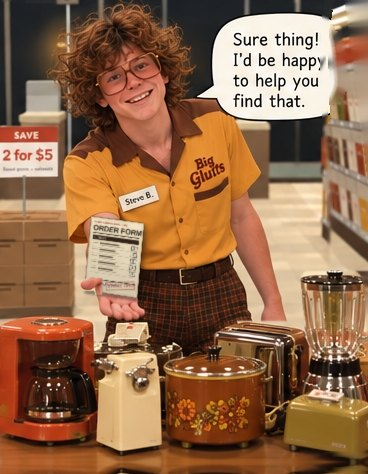
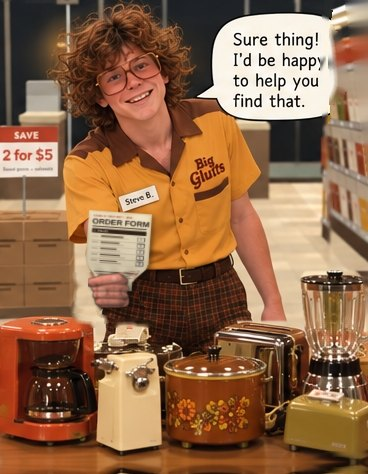
The clerk's fist round the handed-over form, the form in his hand as he walks off; the home-confused second line fades in after 2 s
Claude-Session: https://claude.ai/code/session_01MBPPNbw7PWwvpcuEmuKfZK

Changed region(s): [[0.1793, 0.443, 0.4185, 0.7089], [0.1793, 0.6498, 0.269, 0.7089]]

diff --git a/apps/novaStory.jsx b/apps/novaStory.jsx
@@ -118,9 +118,12 @@ const CSS = `
   .ns-caption.on { animation: ns-in 0.6s ease both; }
   .ns-sub { display: block; max-width: 30em; margin: 0.9em auto 0; font: italic 400 clamp(14px, 2.2vw, 19px)/1.45 'Bodoni Moda', 'Didot', Georgia, serif; color: #CDBF9E; letter-spacing: 0.01em; }
   .ns-caption.off { animation: ns-out 0.5s ease both; }
+  /* (The second line comes up on its own, two seconds after the first, user.) */
+  .ns-caption.on .ns-sub { animation: ns-in 0.8s ease 2s both; }
   @media (prefers-reduced-motion: reduce) {
     .ns-tape, .ns-paper, .ns-slot { transition-duration: 0.01s; }
     .ns-dim, .ns-black.on, .ns-black.off, .ns-caption.on, .ns-caption.off { animation-duration: 0.01s; }
+    .ns-caption.on .ns-sub { animation-duration: 0.01s; animation-delay: 0s; }
   }
 `;
 
@@ -178,8 +181,9 @@ export function StoryCut({ cut, onSwap, onDone, sfx }) {
     if (!cut.arrived) return undefined;
     let raf = requestAnimationFrame(() => {
       raf = requestAnimationFrame(() => {
-        // (A second line takes longer to read.)
-        const read = Math.max(0, (reduced ? 400 : cut.sub ? 3600 : 1700) - (performance.now() - captionAt.current));
+        // (A second line takes longer to read, and comes up 2 s after the
+        // first: 2 s, its fade, and about four seconds on it.)
+        const read = Math.max(0, (reduced ? 400 : cut.sub ? 6800 : 1700) - (performance.now() - captionAt.current));
         after(read, () => setCaption("off"));
         after(read + (reduced ? 50 : 500), () => setStage("reveal"));
         after(read + (reduced ? 100 : 1650), () => onDone());

diff --git a/tools/tienda_clerk_frames.py b/tools/tienda_clerk_frames.py
@@ -370,11 +370,19 @@ def over(dst, layer, dx=0, dy=0, scale=1.0):
 # standing up in his palm, leaning back a little, his thumb in front of it.
 FONT = "/usr/share/fonts/truetype/liberation/LiberationSans-Bold.ttf"
 MONO = "/usr/share/fonts/truetype/liberation/LiberationMono-Bold.ttf"
-# The sheet's corners in the frame (after CROP): top-left, top-right,
-# bottom-right, bottom-left; the bottom edge along his palm.
-FORM_QUAD = [(91, 216), (144, 223), (137, 298), (84, 290)]
-# His thumb (in front of the sheet): where to look for it.
-THUMB_BOX = (76, 278, 102, 295)
+# "Sure thing!": his open hand taken out and a fist painted in its place,
+# closed round the sheet's bunched bottom edge, the sheet fanning up out of
+# it toward you. (Frame coordinates, after CROP.)
+FIST_AT = (88, 268)        # the fist's little canvas, top-left
+FIST_SIZE = 48
+OPEN_HAND = (74, 266, 152, 326)  # where the open hand was (skin in here goes)
+SHEET_TOP, SHEET_BOT = 212, 284  # the sheet's rows, top to where it enters the fist
+SHEET_X_TOP = (84, 146)    # its width up top
+SHEET_X_BOT = (97, 131)    # gathered into the fist
+SHEET_TILT = -4.0          # degrees, about the fist
+# "I'll go check on that...": the sheet hanging from his hand as he walks.
+HANG_FINGERS = (108, 224, 134, 246)  # his fingers (in front of its top edge)
+HANG_QUAD = [(104, 235), (137, 238), (134, 283), (99, 279)]
 
 
 def order_form_art(w=448, h=592):
@@ -435,55 +443,204 @@ def order_form_art(w=448, h=592):
     return arr.astype(np.uint8)
 
 
-def hold_order_form(img):
-    """The order form, in his hand: the sheet warped onto FORM_QUAD, lit a
-    little from above (the store's ceiling), softened to the photo's
-    focus, with a soft shadow on him behind it; then his thumb back over
-    it."""
-    H_, W_ = img.shape[:2]
-    art = order_form_art()
+def _skin(reg):
+    R, G, B = reg[..., 0].astype(int), reg[..., 1].astype(int), reg[..., 2].astype(int)
+    return (R > 140) & (R - G > 30) & (R - B > 40)
+
+
+def _capsule(xx, yy, p0, p1, r):
+    """Signed distance to a capsule from p0 to p1, radius r."""
+    (x0, y0), (x1, y1) = p0, p1
+    dx, dy = x1 - x0, y1 - y0
+    t = np.clip(((xx - x0) * dx + (yy - y0) * dy) / (dx * dx + dy * dy + 1e-9), 0, 1)
+    return np.hypot(xx - (x0 + t * dx), yy - (y0 + t * dy)) - r
+
+
+def paint_fist(skin, tex, size=FIST_SIZE, ss=6, k=FIST_SIZE / 44):
+    """A right fist closed round something upright, seen from the curled
+    fingers' side: four fingers stacked (index on top), each rounded, with
+    its crease and its knuckle at the left (the back of the hand turning
+    away), the fingertips curled into the palm on the right over the heel
+    of the hand; the thumb across the top of them, nail and all. Lit from
+    above and to the left, and carrying the real skin's grain and blotch
+    (tex, a patch of his own palm). Painted ss times over size and brought
+    down (RGBA, size x size)."""
+    n = size * ss
+    yy, xx = (np.mgrid[0:n, 0:n].astype(np.float32) + 0.5) / ss / k  # (drawn on a 44 grid)
+    skin = np.array(skin, np.float32)
+    # His skin's own variation: the palm patch, mirrored to fill, kept only
+    # for its detail (divided by its own blur).
+    t = tex.astype(np.float32)
+    t = np.concatenate([t, t[:, ::-1]], 1); t = np.concatenate([t, t[::-1]], 0)
+    reps = (int(np.ceil(size / t.shape[0])) + 1, int(np.ceil(size / t.shape[1])) + 1, 1)
+    t = np.tile(t, reps)[:size, :size]
+    detail = t / (cv2.GaussianBlur(t, (0, 0), 3) + 1)
+    detail = cv2.resize(np.clip(detail, 0.8, 1.2), (n, n), interpolation=cv2.INTER_CUBIC)
+    col = np.zeros((n, n, 3), np.float32)
+    a = np.zeros((n, n), np.float32)
+    occ = np.zeros((n, n), np.float32)
+    def lay(d, rgb, soft=0.7):
+        m = np.clip(0.5 - d / soft, 0, 1)
+        # (a shadow just round each part, on what's under it)
+        occ[:] = np.maximum(occ * (1 - m), np.exp(-np.maximum(d, 0) / 1.1) * (d > 0) * a)
+        col[:] = col * (1 - m[..., None]) + rgb * m[..., None]
+        a[:] = np.maximum(a, m)
+        return m
+    light = np.clip(1.07 - 0.008 * (xx - 6) - 0.011 * (yy - 6), 0.8, 1.1)[..., None]
+    def rrect(cx, cy, hw, hh, r):
+        qx, qy = np.maximum(np.abs(xx - cx) - (hw - r), 0), np.maximum(np.abs(yy - cy) - (hh - r), 0)
+        return np.hypot(qx, qy) - r
+    # The hand's mass behind the fingers, with the heel of the palm low on
+    # the right, where the fingertips curl in.
+    lay(np.minimum(rrect(21, 21, 15, 15.5, 8), rrect(31, 30, 7, 6, 5)), skin * 0.8 * light)
+    fingers = [((7.6, 12.0), (33.0, 12.8), 3.7), ((7.0, 18.6), (34.2, 19.3), 3.8),
+               ((7.8, 25.2), (33.4, 25.8), 3.6), ((9.6, 31.3), (30.4, 31.8), 3.1)]
+    for i, (p0, p1, r) in enumerate(fingers):
+        d = _capsule(xx, yy, p0, p1, r)
+        cy = (p0[1] + p1[1]) / 2
+        v = np.clip((yy - cy) / r, -1, 1)
+        u = np.clip((xx - p0[0]) / (p1[0] - p0[0]), 0, 1)
+        shade = 1.0 + 0.15 * (-v) - 0.28 * np.clip(v, 0, 1) ** 1.5
+        shade *= 1.0 - 0.24 * np.clip((u - 0.74) / 0.26, 0, 1) ** 1.3   # tips curling in
+        shade *= 1.0 + 0.10 * np.exp(-((u - 0.06) / 0.08) ** 2) * (v < 0.3)  # knuckle
+        shade *= 1.0 - 0.05 * np.exp(-((u - 0.45) / 0.05) ** 2)            # the middle joint's line
+        tint = np.array([1.0, 0.985 - 0.01 * i, 0.985 - 0.01 * i], np.float32)
+        m = lay(d, skin * tint * shade[..., None] * light)
+        crease = np.exp(-((d + 0.25) / 0.6) ** 2) * (v > 0.15)
+        col[:] *= (1 - 0.38 * crease * m)[..., None]
+    # The thumb across the top, from its base on the left to its tip on the
+    # middle finger; its nail.
+    t0, t1 = (3.6, 13.5), (26.5, 9.3)
+    d = _capsule(xx, yy, t0, t1, 4.3)
+    v = np.clip((yy - 11.4) / 4.3, -1, 1)
+    m = lay(d, skin * np.array([1.01, 0.965, 0.96], np.float32) * (1.0 + 0.16 * (-v) - 0.25 * np.clip(v, 0, 1) ** 1.5)[..., None] * light)
+    col[:] *= (1 - 0.4 * np.exp(-((d + 0.2) / 0.65) ** 2) * (v > 0.05) * m)[..., None]
+    ang = np.arctan2(t1[1] - t0[1], t1[0] - t0[0])
+    rx, ry = (xx - 24.0) * np.cos(ang) + (yy - 9.6) * np.sin(ang), -(xx - 24.0) * np.sin(ang) + (yy - 9.6) * np.cos(ang)
+    nm = np.clip((1 - (rx / 2.6) ** 2 - (ry / 2.1) ** 2) * 3, 0, 1) * m
+    col[:] = col * (1 - 0.5 * nm[..., None]) + np.array([236, 206, 196], np.float32) * 0.5 * nm[..., None]
+    # The real skin's grain; the shadows where parts meet; the rim turning away.
+    col *= detail
+    col *= (1 - 0.16 * occ)[..., None]
+    edge = np.clip(1 - np.abs(cv2.GaussianBlur(a, (0, 0), 1.0 * ss) - 0.5) * 2, 0, 1) * (a > 0.5)
+    col *= (1 - 0.07 * edge)[..., None]
+    rgba = np.dstack([np.clip(col, 0, 255), a * 255])
+    return cv2.resize(rgba, (size, size), interpolation=cv2.INTER_AREA)
+
+
+def sheet_in_fist(art, W_, H_):
+    """The order form, its bottom edge bunched into his fist and fanning
+    up: each row of the sheet as wide as SHEET_X_TOP up top, narrowing
+    into SHEET_X_BOT over the last part, with the folds of the gathering;
+    tilted a little. Returns (rgb, alpha) at frame size."""
     ah, aw = art.shape[:2]
-    # Lit from above: a touch darker toward the bottom, warmer overall.
-    shade = np.linspace(1.0, 0.88, ah, dtype=np.float32)[:, None, None]
-    art = np.clip(art.astype(np.float32) * shade * np.array([1.0, 0.98, 0.94], np.float32), 0, 255)
-    src = np.float32([[0, 0], [aw, 0], [aw, ah], [0, ah]])
-    dst = np.float32(FORM_QUAD)
-    # Down to about the frame's scale first (no shimmer), then warped.
-    k = 4
-    small = cv2.resize(art, (aw // k, ah // k), interpolation=cv2.INTER_AREA)
-    M = cv2.getPerspectiveTransform(src / k, dst)
-    sheet = cv2.warpPerspective(small, M, (W_, H_), flags=cv2.INTER_LINEAR)
-    alpha = cv2.warpPerspective(np.ones(small.shape[:2], np.float32), M, (W_, H_), flags=cv2.INTER_LINEAR)
-    # The photo's softness.
-    sheet = cv2.GaussianBlur(sheet, (0, 0), 0.55)
+    small = cv2.resize(art.astype(np.float32), (aw // 4, ah // 4), interpolation=cv2.INTER_AREA)
+    sh, sw = small.shape[:2]
+    yy, xx = np.mgrid[0:H_, 0:W_].astype(np.float32)
+    t = (yy - SHEET_TOP) / (SHEET_BOT - SHEET_TOP)
+    g = np.clip((t - 0.7) / 0.3, 0, 1)
+    g = g * g * (3 - 2 * g)  # gathering, over the last part
+    L = SHEET_X_TOP[0] + (SHEET_X_BOT[0] - SHEET_X_TOP[0]) * g
+    R = SHEET_X_TOP[1] + (SHEET_X_BOT[1] - SHEET_X_TOP[1]) * g
+    u = (xx - L) / (R - L)
+    inside = (t >= 0) & (t <= 1.08) & (u >= 0) & (u <= 1)
+    mapx = (u * (sw - 1)).astype(np.float32)
+    mapy = (np.clip(t, 0, 1) * (sh - 1)).astype(np.float32)
+    rgb = cv2.remap(small, mapx, mapy, cv2.INTER_LINEAR, borderMode=cv2.BORDER_REPLICATE)
+    # The folds where it's gathered: ridges and valleys running into the fist.
+    folds = 1 + 0.16 * g * np.sin(u * np.pi * 7 + 0.6) - 0.05 * g
+    # And the light: a touch darker toward the fist.
+    rgb *= (folds * (1.0 - 0.10 * np.clip(t, 0, 1)))[..., None]
+    alpha = inside.astype(np.float32)
+    # Tilted about the fist.
+    cx, cy = (SHEET_X_BOT[0] + SHEET_X_BOT[1]) / 2, SHEET_BOT
+    M = cv2.getRotationMatrix2D((cx, cy), SHEET_TILT, 1.0)
+    rgb = cv2.warpAffine(rgb, M, (W_, H_), flags=cv2.INTER_LINEAR)
+    alpha = cv2.warpAffine(alpha, M, (W_, H_), flags=cv2.INTER_LINEAR)
+    return rgb, alpha
+
+
+def hold_order_form(img, partner=None):
+    """'Sure thing!': the open hand out, the sheet in, the fist over it."""
+    H_, W_ = img.shape[:2]
+    base = img.copy()
+    # Its skin, from the palm, for the fist.
+    x0, y0, x1, y1 = OPEN_HAND
+    reg = base[y0:y1, x0:x1]
+    sk = _skin(reg)
+    skin = np.median(reg[sk].reshape(-1, 3), axis=0) if sk.any() else np.array([222, 160, 145])
+    tex = base[284:308, 102:128].copy()  # (his palm, for the grain)
+    # The open hand out (its skin in OPEN_HAND below the wrist), the
+    # background painted back from round it.
+    hand = np.zeros((H_, W_), np.uint8)
+    hand[y0:y1, x0:x1] = sk
+    hand[:274] = 0  # (the forearm stays; the sheet and the fist cover the wrist)
+    hand = cv2.dilate(hand, np.ones((3, 3), np.uint8), iterations=2) > 0
+    # What was behind it: the "Hi there" frame (the same camera) where it
+    # shows no hand of its own; the rest painted in from round it.
+    if partner is not None:
+        pr = partner[y0:y1, x0:x1]
+        ok = np.zeros((H_, W_), bool)
+        ok[y0:y1, x0:x1] = ~cv2.dilate(_skin(pr).astype(np.uint8), np.ones((5, 5), np.uint8), iterations=2).astype(bool)
+        take = hand & ok
+        base[take] = partner[take]
+        hand &= ~take
+    base = cv2.inpaint(base, hand.astype(np.uint8) * 255, 5, cv2.INPAINT_TELEA)
+    art = order_form_art()
+    ah = art.shape[0]
+    art = np.clip(art.astype(np.float32) * np.linspace(1.0, 0.9, ah, dtype=np.float32)[:, None, None] * np.array([1.0, 0.98, 0.94], np.float32), 0, 255)
+    sheet, alpha = sheet_in_fist(art, W_, H_)
+    sheet = cv2.GaussianBlur(sheet, (0, 0), 0.5)
     alpha = cv2.GaussianBlur(alpha, (0, 0), 0.5)
-    out = img.astype(np.float32)
-    # Its shadow on him, down and to the right.
-    sh = np.roll(np.roll(alpha, 3, axis=1), 2, axis=0)
-    sh = cv2.GaussianBlur(sh, (0, 0), 2.2) * 0.38
-    # ...and where it rests in his palm, a darker line just under its edge.
-    contact = np.clip(np.roll(alpha, 3, axis=0) - alpha, 0, 1)
-    sh = np.maximum(sh, cv2.GaussianBlur(contact, (0, 0), 1.2) * 0.5)
+    out = base.astype(np.float32)
+    # The sheet's shadow on him, down and to the right.
+    sh = cv2.GaussianBlur(np.roll(np.roll(alpha, 3, axis=1), 2, axis=0), (0, 0), 2.2) * 0.36
     out *= (1 - sh)[..., None]
     out = out * (1 - alpha[..., None]) + sheet * alpha[..., None]
-    # His thumb, in front: the original's skin in THUMB_BOX, above the
-    # sheet's bottom edge.
-    x0, y0, x1, y1 = THUMB_BOX
-    reg = img[y0:y1, x0:x1].astype(int)
-    R, G, B = reg[..., 0], reg[..., 1], reg[..., 2]
-    skin = (R > 150) & (R - G > 32) & (R - B > 45)
+    # The fist, over the sheet's gathered end.
+    fist = paint_fist(skin * 0.97, tex)
+    fx, fy = FIST_AT
+    fa = cv2.GaussianBlur(fist[..., 3] / 255.0, (0, 0), 0.6)
+    frgb = cv2.GaussianBlur(fist[..., :3], (0, 0), 0.75)
+    frgb += np.random.default_rng(7).normal(0, 2.5, frgb.shape)  # the photo's grain
+    F = np.zeros((H_, W_), np.float32); F[fy:fy + FIST_SIZE, fx:fx + FIST_SIZE] = fa
+    C = np.zeros((H_, W_, 3), np.float32); C[fy:fy + FIST_SIZE, fx:fx + FIST_SIZE] = frgb
+    # Its shadow on the sheet and on him.
+    fs = cv2.GaussianBlur(np.roll(np.roll(F, 2, axis=1), 2, axis=0), (0, 0), 1.8) * 0.4
+    out *= (1 - fs * (1 - F))[..., None]
+    out = out * (1 - F[..., None]) + C * F[..., None]
+    return np.clip(out, 0, 255).astype(np.uint8)
+
+
+def hang_order_form(img):
+    """'I'll go check on that...': the form hanging from his right hand as
+    he walks off, held by its top edge in his curled fingers (which stay
+    in front of it), a little in his own shadow; its shadow on the floor
+    beside it."""
+    H_, W_ = img.shape[:2]
+    art = order_form_art().astype(np.float32)
+    ah, aw = art.shape[:2]
+    art *= np.linspace(0.97, 0.84, ah, dtype=np.float32)[:, None, None] * np.array([0.97, 0.94, 0.88], np.float32)
+    small = cv2.resize(art, (aw // 6, ah // 6), interpolation=cv2.INTER_AREA)
+    sh_, sw_ = small.shape[:2]
+    M = cv2.getPerspectiveTransform(np.float32([[0, 0], [sw_, 0], [sw_, sh_], [0, sh_]]), np.float32(HANG_QUAD))
+    sheet = cv2.warpPerspective(small, M, (W_, H_), flags=cv2.INTER_LINEAR)
+    alpha = cv2.warpPerspective(np.ones((sh_, sw_), np.float32), M, (W_, H_), flags=cv2.INTER_LINEAR)
+    sheet = cv2.GaussianBlur(sheet, (0, 0), 0.6)
+    alpha = cv2.GaussianBlur(alpha, (0, 0), 0.55)
+    out = img.astype(np.float32)
+    sh = cv2.GaussianBlur(np.roll(np.roll(alpha, 4, axis=1), 3, axis=0), (0, 0), 2.5) * 0.3
+    out *= (1 - sh)[..., None]
+    out = out * (1 - alpha[..., None]) + sheet * alpha[..., None]
+    # His fingers back over its top edge.
+    x0, y0, x1, y1 = HANG_FINGERS
     sk = np.zeros((H_, W_), np.uint8)
-    sk[y0:y1, x0:x1] = skin
-    n, lab, st, _ = cv2.connectedComponentsWithStats(sk, 8)
-    if n > 1:
-        big = 1 + int(np.argmax(st[1:, cv2.CC_STAT_AREA]))
-        sk = (lab == big).astype(np.uint8)
+    sk[y0:y1, x0:x1] = _skin(img[y0:y1, x0:x1])
     sk = cv2.morphologyEx(sk, cv2.MORPH_CLOSE, np.ones((3, 3), np.uint8))
-    thumb = cv2.GaussianBlur(sk.astype(np.float32), (0, 0), 0.6)
-    # Its shadow on the sheet, just below it.
-    ts = np.roll(cv2.GaussianBlur(sk.astype(np.float32), (0, 0), 1.4), 2, axis=0) * alpha * 0.35
-    out *= (1 - ts)[..., None]
-    out = out * (1 - thumb[..., None]) + img.astype(np.float32) * thumb[..., None]
+    f = cv2.GaussianBlur(sk.astype(np.float32), (0, 0), 0.6)
+    fs = np.roll(cv2.GaussianBlur(sk.astype(np.float32), (0, 0), 1.3), 2, axis=0) * alpha * 0.35
+    out *= (1 - fs)[..., None]
+    out = out * (1 - f[..., None]) + img.astype(np.float32) * f[..., None]
     return np.clip(out, 0, 255).astype(np.uint8)
 
 
@@ -500,7 +657,10 @@ def main():
         out = over(img, layer, dy=SPREAD_DY[sheet])
         im = Image.fromarray(out).crop(CROP[sheet])
         if name == "clerk-sure":
-            im = Image.fromarray(hold_order_form(np.array(im)))
+            partner = np.array(Image.fromarray(over(cleaned["clerk-hello"], layer, dy=SPREAD_DY[sheet])).crop(CROP[sheet]))
+            im = Image.fromarray(hold_order_form(np.array(im), partner))
+        if name == "clerk-go":
+            im = Image.fromarray(hang_order_form(np.array(im)))
         im.save(os.path.join(OUT, f"{name}.jpg"), quality=86, optimize=True, progressive=True)
         if a.debug:
             os.makedirs(a.debug, exist_ok=True)

diff --git a/PROJECT_MEMORY.md b/PROJECT_MEMORY.md
@@ -4269,3 +4269,29 @@ phone menu until "Start the story over" (which clears it).
   in the frame (and every other frame) unchanged; re-running the script
   rewrites the others with identical pixels (only the JPEG bytes differ,
   so they were left as committed). Fonts: Liberation Sans/Mono Bold.
+- The handed-over form, round 2 (user: his hand closed round it, redrawn
+  as realistically as possible; and seen in his hand as he walks away):
+  tools/tienda_clerk_frames.py.
+  - clerk-sure (hold_order_form): the open hand taken out (skin in
+    OPEN_HAND below y 274); behind it the "Hi there" frame's own pixels
+    (same camera, identity alignment) where it shows no hand, the rest
+    inpainted. A right fist painted in its place (paint_fist: drawn 6x on
+    a 44 grid, scaled to FIST_SIZE 48 at FIST_AT): the hand's mass with
+    the heel of the palm low right, four curled fingers stacked (index on
+    top) with creases, knuckle sheen and tips curling in, the thumb across
+    the top with its nail; lit from upper left; his own palm's grain
+    (a 26x24 patch, high-passed) multiplied in; softened to the photo
+    (blur 0.75) with grain. Its skin tone: the palm's median x 0.97. The
+    sheet (sheet_in_fist) fans up from the fist: full width (SHEET_X_TOP)
+    to 70% down, then gathered into SHEET_X_BOT with fold shading, tilted
+    -4 degrees about the fist; its shadow on him; the fist's on it.
+    (A real grip borrowed from clerk-phone was tried: the hand there is
+    mostly wrist behind the handset, and its colours don't separate.)
+  - clerk-go (hang_order_form): the form hanging from his right hand by
+    its top edge (HANG_QUAD), printed side out, in his shadow a little;
+    his fingertips (skin in HANG_FINGERS) back in front of it.
+  The other frames are left byte-for-byte as committed.
+- "Home again. Confused." (novaStory.jsx): the second line ("The new
+  pieces are already on the table...") fades in 2 s after the first
+  (.ns-caption.on .ns-sub: ns-in 0.8s, 2s delay); the caption now holds
+  6.8 s when there's a second line (was 3.6) so it can be read.
